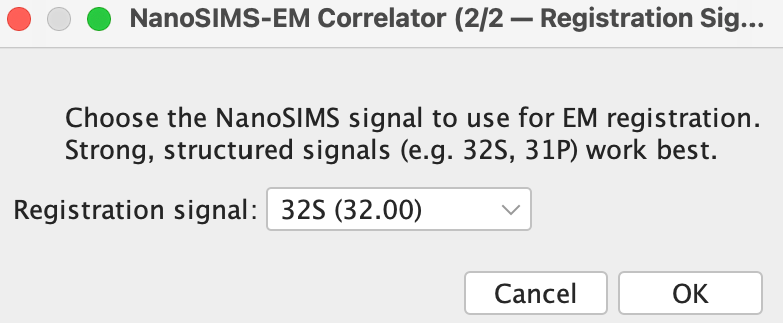
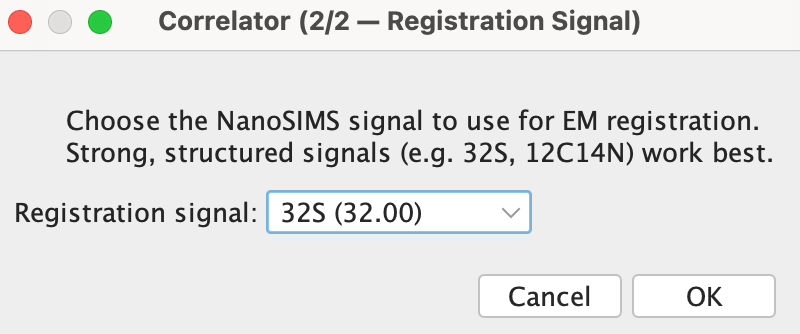
modify readme

diff --git a/Correlator-Plugin/README.md b/Correlator-Plugin/README.md
@@ -15,7 +15,7 @@ Please note that we don't support macOS before 11.
 
 ### Run Correction
 
-1. Click plugin -> NanoSIMS Correlatve -> NanoSIMS EM Correlator
+1. Click plugin -> Correlator -> Correlator
 
 2. Browse the NanoSIMS and EM image. Input the pixel size of these two images.
 
@@ -25,4 +25,4 @@ Please note that we don't support macOS before 11.
 
     ![image-20240108200232561](./img/channel.png)
 
-4. Press ok and the alignment was done. The aligned nanoSIMS will be saved in the same folder as the raw NanoSIMS image. 
+4. The alignment was done. The aligned nanoSIMS will be saved in the same folder as the raw NanoSIMS image. 

diff --git a/README.md b/README.md
@@ -1,3 +1,3 @@
 ## NanoSIMS EM Correlator 
 
-This repository contains the source code for our NanoSIMS EM Correlator ImageJ plugin and Python Code. Please go to the corresponding README for details.
+This repository contains the source code for our Correlator ImageJ plugin and Python Code for registering images of correlative electron and ion microscopy. Please go to the corresponding README for details.
